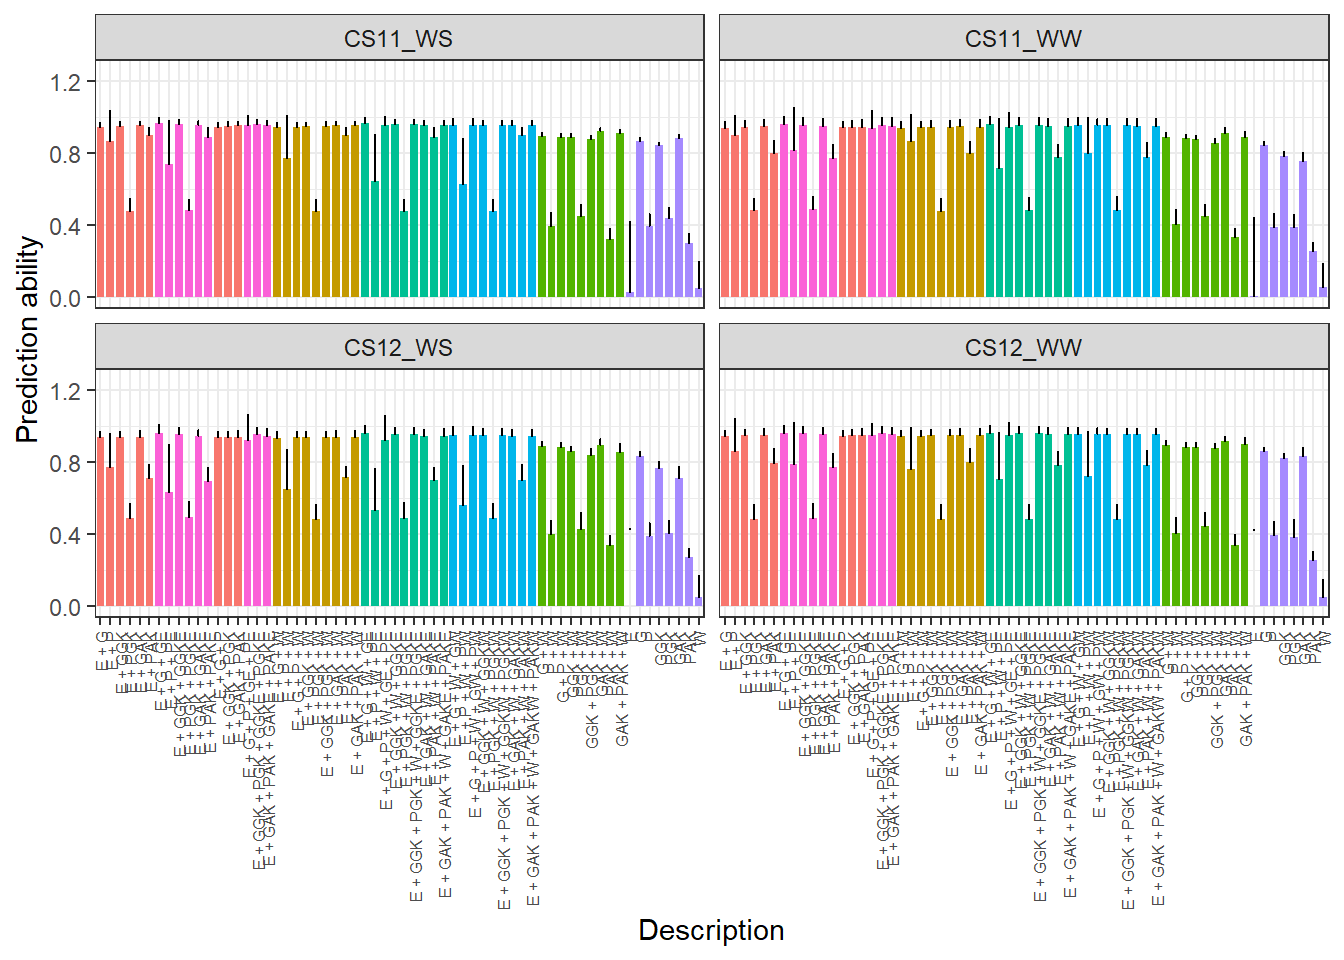
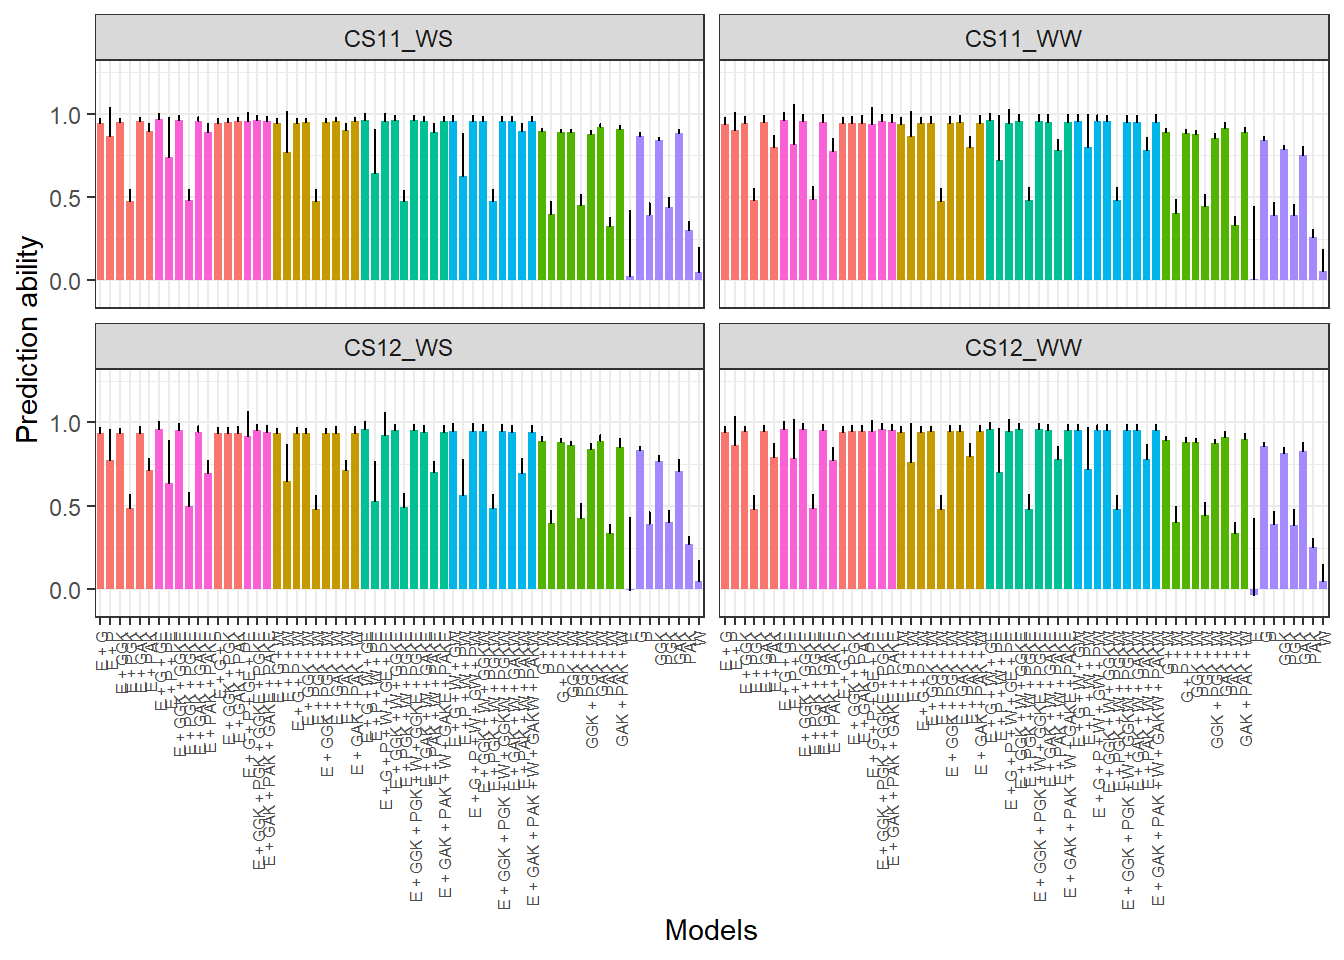
update analysis .rmd and .html

diff --git a/docs/analysis.html b/docs/analysis.html
@@ -538,15 +538,15 @@ project makes it easier to run your code on other machines.</p>
 <div class="panel panel-default">
 <div class="panel-heading">
 <p class="panel-title">
-<a data-toggle="collapse" data-parent="#workflowr-checks" href="#strongRepositoryversionstrongahrefhttpsgithubcomWevertonGomesCostaIntegratingnirgenomickerneltreec6199f984a849b6ac1e98891732d4bf096b19848targetblankc6199f9a">
+<a data-toggle="collapse" data-parent="#workflowr-checks" href="#strongRepositoryversionstrongahrefhttpsgithubcomWevertonGomesCostaIntegratingnirgenomickerneltree4e293322320ae7e2d3120ad8dd5a0c9c28cab548targetblank4e29332a">
 <span class="glyphicon glyphicon-ok text-success"
 aria-hidden="true"></span> <strong>Repository version:</strong>
-<a href="https://github.com/WevertonGomesCosta/Integrating-nir-genomic-kernel/tree/c6199f984a849b6ac1e98891732d4bf096b19848" target="_blank">c6199f9</a>
+<a href="https://github.com/WevertonGomesCosta/Integrating-nir-genomic-kernel/tree/4e293322320ae7e2d3120ad8dd5a0c9c28cab548" target="_blank">4e29332</a>
 </a>
 </p>
 </div>
 <div
[2 lines of base64/hex data omitted]
 class="panel-collapse collapse">
 <div class="panel-body">
 <p>
@@ -556,7 +556,7 @@ reproducibility.
 </p>
 <p>
 The results in this page were generated with repository version
-<a href="https://github.com/WevertonGomesCosta/Integrating-nir-genomic-kernel/tree/c6199f984a849b6ac1e98891732d4bf096b19848" target="_blank">c6199f9</a>.
+<a href="https://github.com/WevertonGomesCosta/Integrating-nir-genomic-kernel/tree/4e293322320ae7e2d3120ad8dd5a0c9c28cab548" target="_blank">4e29332</a>.
 See the <em>Past versions</em> tab to see a history of the changes made
 to the R Markdown and HTML files.
 </p>
@@ -578,15 +578,32 @@ Ignored files:
     Ignored:    output/ajuste_modelo/
     Ignored:    output/componentes_variancia/Variance.Components.DAT.Means.Parsed.csv
     Ignored:    output/componentes_variancia/Variance.Components.DAT.Means.csv
-    Ignored:    output/componentes_variancia/rep_1/Eta1/full_Eta1_GY_rep1_ETA_E_varB.dat
-    Ignored:    output/componentes_variancia/rep_1/Eta1/full_Eta1_GY_rep1_ETA_G_varU.dat
+    Ignored:    output/componentes_variancia/rep_1/
+    Ignored:    output/componentes_variancia/rep_10/
+    Ignored:    output/componentes_variancia/rep_11/
+    Ignored:    output/componentes_variancia/rep_12/
+    Ignored:    output/componentes_variancia/rep_13/
+    Ignored:    output/componentes_variancia/rep_14/
+    Ignored:    output/componentes_variancia/rep_15/
+    Ignored:    output/componentes_variancia/rep_16/
+    Ignored:    output/componentes_variancia/rep_17/
+    Ignored:    output/componentes_variancia/rep_18/
+    Ignored:    output/componentes_variancia/rep_19/
+    Ignored:    output/componentes_variancia/rep_2/
+    Ignored:    output/componentes_variancia/rep_20/
+    Ignored:    output/componentes_variancia/rep_3/
+    Ignored:    output/componentes_variancia/rep_4/
+    Ignored:    output/componentes_variancia/rep_5/
+    Ignored:    output/componentes_variancia/rep_6/
+    Ignored:    output/componentes_variancia/rep_7/
+    Ignored:    output/componentes_variancia/rep_8/
+    Ignored:    output/componentes_variancia/rep_9/
     Ignored:    output/componentes_variancia/variance_components_percentage_GY.tiff
     Ignored:    output/componentes_variancia/variance_components_percentage_KW.tiff
     Ignored:    output/results/
 
 Unstaged changes:
     Modified:   analysis/analysis.Rmd
-    Modified:   output/Pred.ability/Pred.ability.CV0.CV00.classified.csv
 
 </code></pre>
 <p>
@@ -631,6 +648,40 @@ Message
 </tr>
 </thead>
 <tbody>
+<tr>
+<td>
+Rmd
+</td>
+<td>
+<a href="https://github.com/WevertonGomesCosta/Integrating-nir-genomic-kernel/blob/2dac00dc5b70aafc37112bdf20b8aad228e8d120/analysis/analysis.Rmd" target="_blank">2dac00d</a>
+</td>
+<td>
+WevertonGomesCosta
+</td>
+<td>
+2025-11-03
+</td>
+<td>
+add analysis .rmd and html
+</td>
+</tr>
+<tr>
+<td>
+html
+</td>
+<td>
+<a href="https://rawcdn.githack.com/WevertonGomesCosta/Integrating-nir-genomic-kernel/2dac00dc5b70aafc37112bdf20b8aad228e8d120/docs/analysis.html" target="_blank">2dac00d</a>
+</td>
+<td>
+WevertonGomesCosta
+</td>
+<td>
+2025-11-03
+</td>
+<td>
+add analysis .rmd and html
+</td>
+</tr>
 <tr>
 <td>
 Rmd
@@ -1913,8 +1964,8 @@ for (obj_name in to_keep) {
 rm(list = to_remove, envir = .GlobalEnv)
 gc()</code></pre>
 <pre><code>           used  (Mb) gc trigger   (Mb)  max used   (Mb)
-Ncells  1603056  85.7    2506878  133.9   2506878  133.9
-Vcells 21043461 160.6  169939857 1296.6 212424821 1620.7</code></pre>
+Ncells  1603397  85.7    2519538  134.6   2519538  134.6
+Vcells 21044844 160.6  175724606 1340.7 219655757 1675.9</code></pre>
 <pre class="r"><code># Lista todos os arquivos .rds na pasta output/Matrizes
 rds_files &lt;- list.files(&quot;output/Matrizes&quot;, pattern = &quot;\\.rds$&quot;, full.names = TRUE)
 
@@ -3300,8 +3351,8 @@ cat(&quot;Rodando em &quot;, useCores, &quot; núcleos.&quot;)</code></pre>
 RAM não utilizada) antes de iniciar o trabalho pesado.</p>
 <pre class="r"><code>gc()  # Limpa memória antes da execução paralela</code></pre>
 <pre><code>           used  (Mb) gc trigger   (Mb)  max used   (Mb)
-Ncells  1610823  86.1    2506878  133.9   2506878  133.9
-Vcells 21094649 161.0  135951886 1037.3 212424821 1620.7</code></pre>
+Ncells  1611162  86.1    2519538  134.6   2519538  134.6
+Vcells 21096038 161.0  140579685 1072.6 219655757 1675.9</code></pre>
 </div>
 <div id="execução-dos-modelos-em-paralelo" class="section level3">
 <h3>14.2) Execução dos modelos em paralelo</h3>
@@ -3779,8 +3830,8 @@ finais.</p>
 rm(list = setdiff(ls(), c(&quot;Pheno&quot;, &quot;Pedigree&quot;, &quot;model_info&quot;)))
 gc()  # Limpa memória</code></pre>
 <pre><code>          used (Mb) gc trigger  (Mb)  max used   (Mb)
-Ncells 1615072 86.3    5145534 274.9   5145534  274.9
-Vcells 3199575 24.5   69607367 531.1 212424821 1620.7</code></pre>
+Ncells 1615414 86.3    6328826 338.0   7911032  422.5
+Vcells 3200961 24.5   71976800 549.2 219655757 1675.9</code></pre>
 </div>
 <div id="gráfico-de-barras-da-acurácia-preditiva-cv0-e-cv00"
 class="section level3">
@@ -3853,8 +3904,8 @@ p &lt;- df_cor %&gt;%
                 position = position_dodge(.9)) +
   theme_bw() +
   facet_wrap(. ~  Env_Val, nrow = 2) +  # Um painel para cada esquema de validação
-  scale_y_continuous(&quot;Prediction ability&quot;, limits = c(0,1.25)) +
-  #scale_x_continuous(&quot;Models&quot;, expand = c(0, 0), breaks = df_cor$ModelID) +
+  scale_y_continuous(&quot;Prediction ability&quot;, limits = c(-0.1,1.25)) +
+  scale_x_discrete(&quot;Models&quot;) +
   theme(axis.text.x = element_text(
     angle = 90,
     vjust = 0.5,
@@ -3865,6 +3916,71 @@ p &lt;- df_cor %&gt;%
 # Exibe o gráfico
 p</code></pre>
 <p><img src="figure/analysis.Rmd/pred-ability-plot-1.png" width="100%" style="display: block; margin: auto;" /></p>
+<p>
+<button type="button" class="btn btn-default btn-xs btn-workflowr btn-workflowr-fig" data-toggle="collapse" data-target="#fig-pred-ability-plot-1">
+Past versions of pred-ability-plot-1.png
+</button>
+</p>
+<div id="fig-pred-ability-plot-1" class="collapse">
+<div class="table-responsive">
+<table class="table table-condensed table-hover">
+<thead>
+<tr>
+<th>
+Version
+</th>
+<th>
+Author
+</th>
+<th>
+Date
+</th>
+</tr>
+</thead>
+<tbody>
+<tr>
+<td>
+<a href="https://github.com/WevertonGomesCosta/Integrating-nir-genomic-kernel/blob/2dac00dc5b70aafc37112bdf20b8aad228e8d120/docs/figure/analysis.Rmd/pred-ability-plot-1.png" target="_blank">2dac00d</a>
+</td>
+<td>
+WevertonGomesCosta
+</td>
+<td>
+2025-11-03
+</td>
+</tr>
+</tbody>
+</table>
+</div>
+</div>
+<pre class="r"><code>df_cor &lt;- read.csv(&quot;output/Pred.ability/Pred.ability.CV0.CV00.classified.csv&quot;)
+# Cria gráfico de barras com erro padrão e rótulos
+
+p &lt;- df_cor %&gt;% 
+  group_by(Model, CV, Trait) %&gt;% 
+  summarise(M = mean(M, na.rm = TRUE), SD = sd(M, na.rm = TRUE)) %&gt;% 
+  full_join(model_info) %&gt;% 
+  ggplot(aes(x = reorder(Description, ModelID), y = M, fill = factor(Type))) +
+  geom_bar(stat = &quot;identity&quot;, position = position_dodge(), width = 0.8, show.legend = FALSE) +
+  geom_errorbar(aes(ymin = M, ymax = M + SD),
+                width = .2,
+                position = position_dodge(.9)) +
+  theme_bw() +
+  facet_grid( CV ~  Trait) +  # Um painel para cada esquema de validação
+  scale_y_continuous(limits = c(-0.1,1.25)) +
+  #scale_x_discrete(&quot;Models&quot;) +
+  theme(axis.text.x = element_text(
+    angle = 90,
+    vjust = 0.5,
+    hjust = 1,
+    size = 6
+  )) +
+  labs(x = &quot;Models&quot;,
+       y = &quot;Prediction ability&quot;)
+
+# Exibe o gráfico
+p</code></pre>
+<p><img src="figure/analysis.Rmd/unnamed-chunk-11-1.png" width="100%" style="display: block; margin: auto;" /></p>
 </div>
 <div id="geração-automatizada-de-gráficos-cv0-e-cv00"
 class="section level3">
@@ -4116,15 +4232,15 @@ cria uma “grade” de gráficos: <code>Trait</code> (GY, KW) define as
 
 p &lt;- df_cor %&gt;% 
   #mutate(Description = forcats::fct_reorder(Description, ModelID)) %&gt;%
-  ggplot(aes(x = Description, y = M, fill = factor(Type))) +
+  ggplot(aes(x = reorder(Description, ModelID), y = M, fill = factor(Type))) +
   geom_bar(stat = &quot;identity&quot;, position = position_dodge(), width = 0.8, show.legend = FALSE) +
   geom_errorbar(aes(ymin = M, ymax = M + SD),
                 width = .2,
                 position = position_dodge(.9)) +
   theme_bw() +
   facet_grid(Trait ~ CV) +  # Um painel para cada esquema de validação
-  #scale_y_continuous(&quot;Prediction ability&quot;, limits = c(0,1.25)) +
-  #scale_x_continuous(&quot;Models&quot;, expand = c(0, 0), breaks = df_cor$ModelID) +
+  scale_y_continuous(&quot;Prediction ability&quot;, limits = c(-0.1,1.25)) +
+  scale_x_discrete(&quot;Models&quot;) +
   theme(axis.text.x = element_text(
     angle = 90,
     vjust = 0.5,
@@ -4135,6 +4251,43 @@ p &lt;- df_cor %&gt;%
 # Exibe o gráfico
 p</code></pre>
 <p><img src="figure/analysis.Rmd/pred-ability-plot-cv1-cv2-1.png" width="100%" style="display: block; margin: auto;" /></p>
+<p>
+<button type="button" class="btn btn-default btn-xs btn-workflowr btn-workflowr-fig" data-toggle="collapse" data-target="#fig-pred-ability-plot-cv1-cv2-1">
+Past versions of pred-ability-plot-cv1-cv2-1.png
+</button>
+</p>
+<div id="fig-pred-ability-plot-cv1-cv2-1" class="collapse">
+<div class="table-responsive">
+<table class="table table-condensed table-hover">
+<thead>
+<tr>
+<th>
+Version
+</th>
+<th>
+Author
+</th>
+<th>
+Date
+</th>
+</tr>
+</thead>
+<tbody>
+<tr>
+<td>
+<a href="https://github.com/WevertonGomesCosta/Integrating-nir-genomic-kernel/blob/2dac00dc5b70aafc37112bdf20b8aad228e8d120/docs/figure/analysis.Rmd/pred-ability-plot-cv1-cv2-1.png" target="_blank">2dac00d</a>
+</td>
+<td>
+WevertonGomesCosta
+</td>
+<td>
+2025-11-03
+</td>
+</tr>
+</tbody>
+</table>
+</div>
+</div>
 </div>
 <div id="geração-automatizada-de-gráficos-cv1-e-cv2"
 class="section level3">
